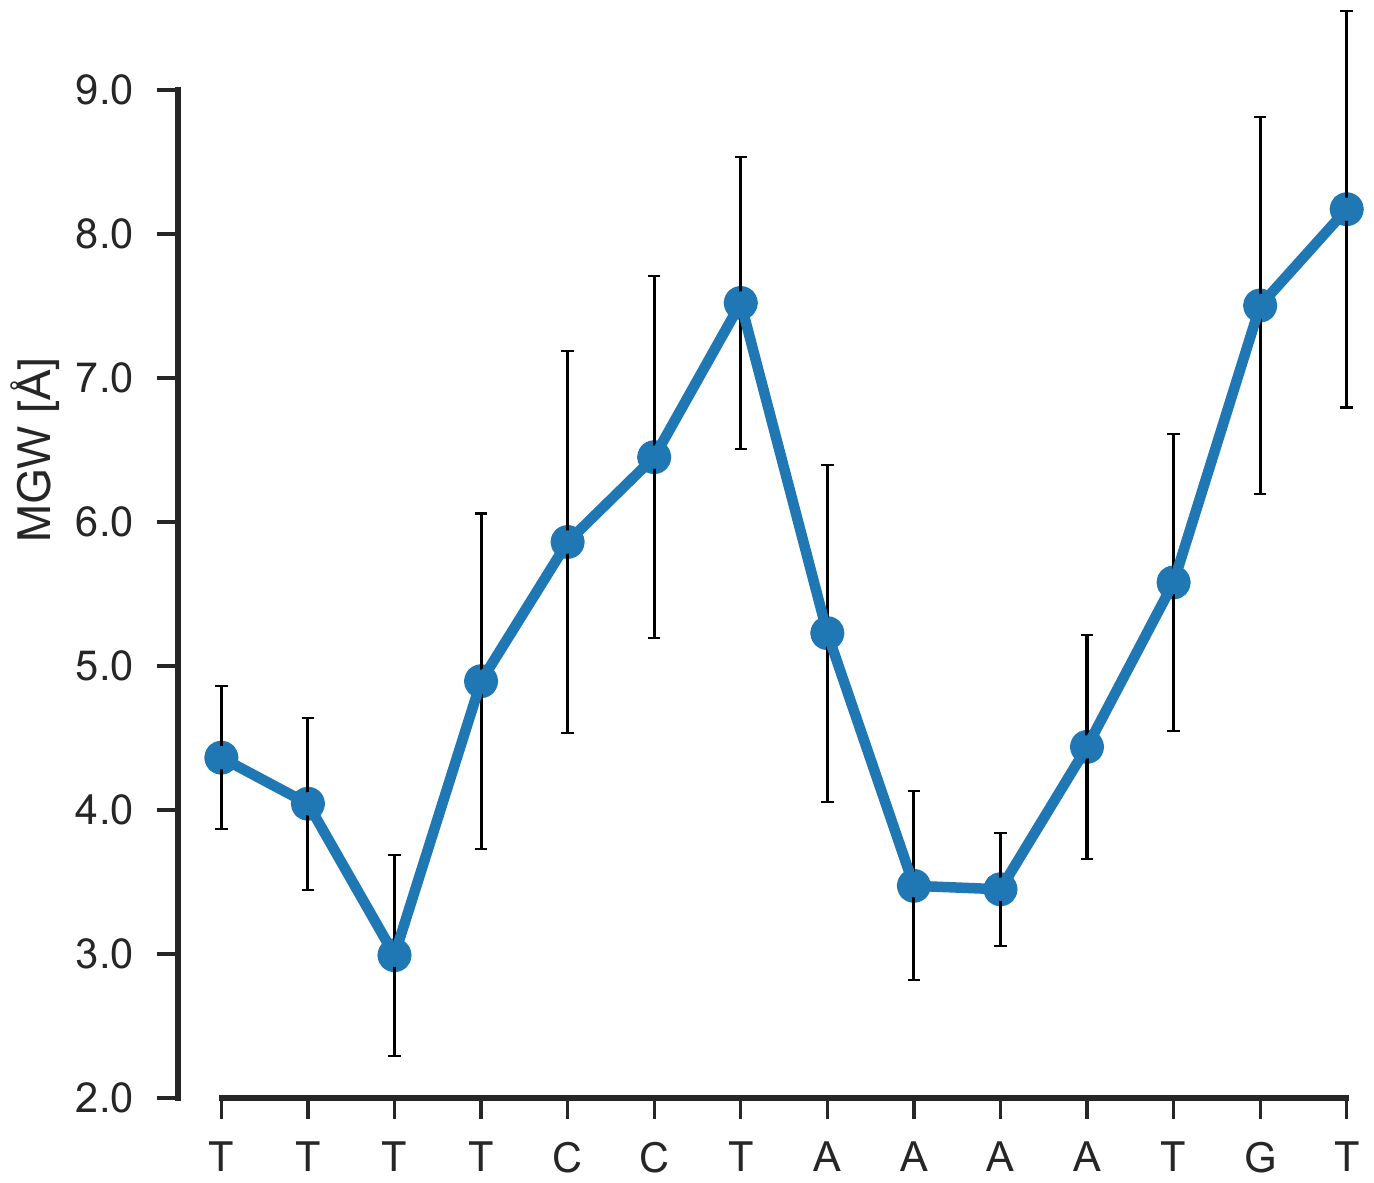
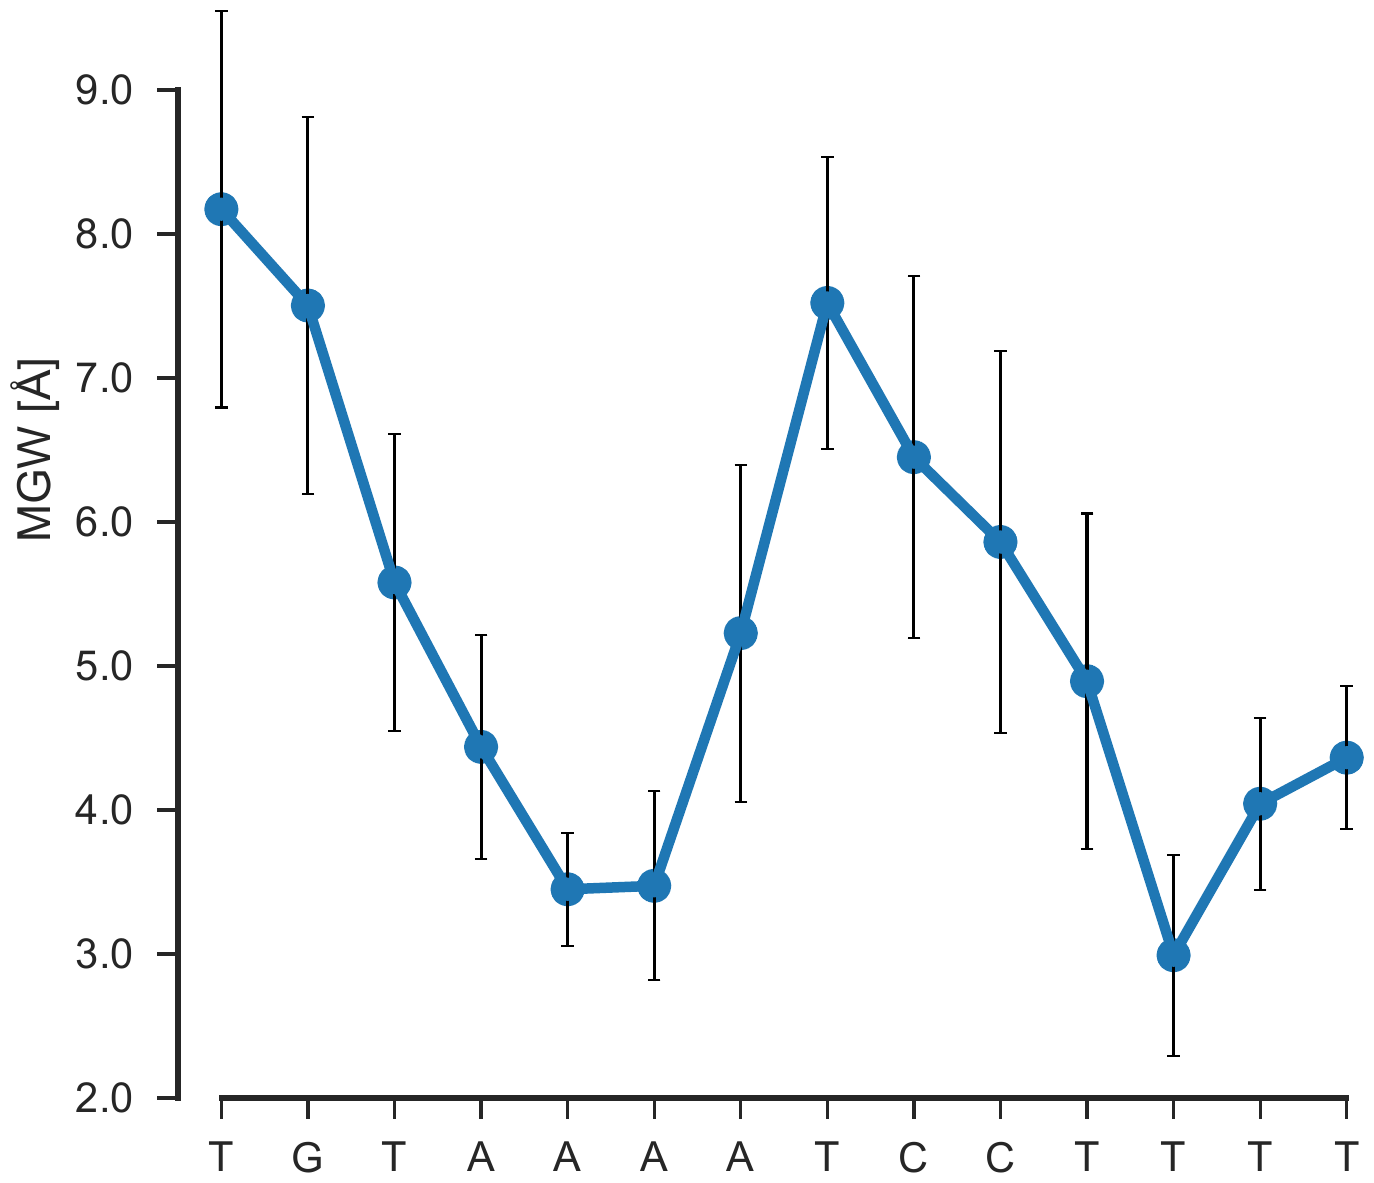
fixed the 3'-5' plot in publication type

diff --git a/visualization/publication_type_plotter.py b/visualization/publication_type_plotter.py
@@ -57,7 +57,16 @@ def plot_bp_feature(config_dict=None, feature=None, ax=None):
             sep="\s+",
             header='infer')
     sub_df = df[3:17]
-    sns.set_style("white", {"ytick.major.size":"5", "xtick.major.size":"5", 'font.family': [u'Arial']} )#, rc={'text.usetex': True} )
+    nucs="TTTTCCTAAAATGT"
+    sns.set_style("white", {"ytick.major.size":"5",
+        "xtick.major.size":"5",
+        'font.family': [u'Arial']} )#, rc={'text.usetex': True} )
+    if config_dict.plot_reverse is True:
+        nucs = nucs[::-1]
+        #sub_df['ResId'] = sub_df['ResId'][::-1].tolist()
+        sub_df = sub_df[::-1]
+        sub_df['ResId'] = sub_df['ResId'][::-1].tolist()
+
     sns.set_context('paper', font_scale=1.25)
     subplt = sns.pointplot(data=sub_df, x="ResId", y="Mean")
     x_coords = []
@@ -74,7 +83,6 @@ def plot_bp_feature(config_dict=None, feature=None, ax=None):
     subplt.set_ylabel(__y_label_dict__[feature])
     ax.yaxis.set_major_formatter(majorFormatter)
     subplt.set_xlabel('')
-    nucs="TTTTCCTAAAATGT"
     subplt.set_xticklabels(labels=list(nucs))
     return subplt
 
